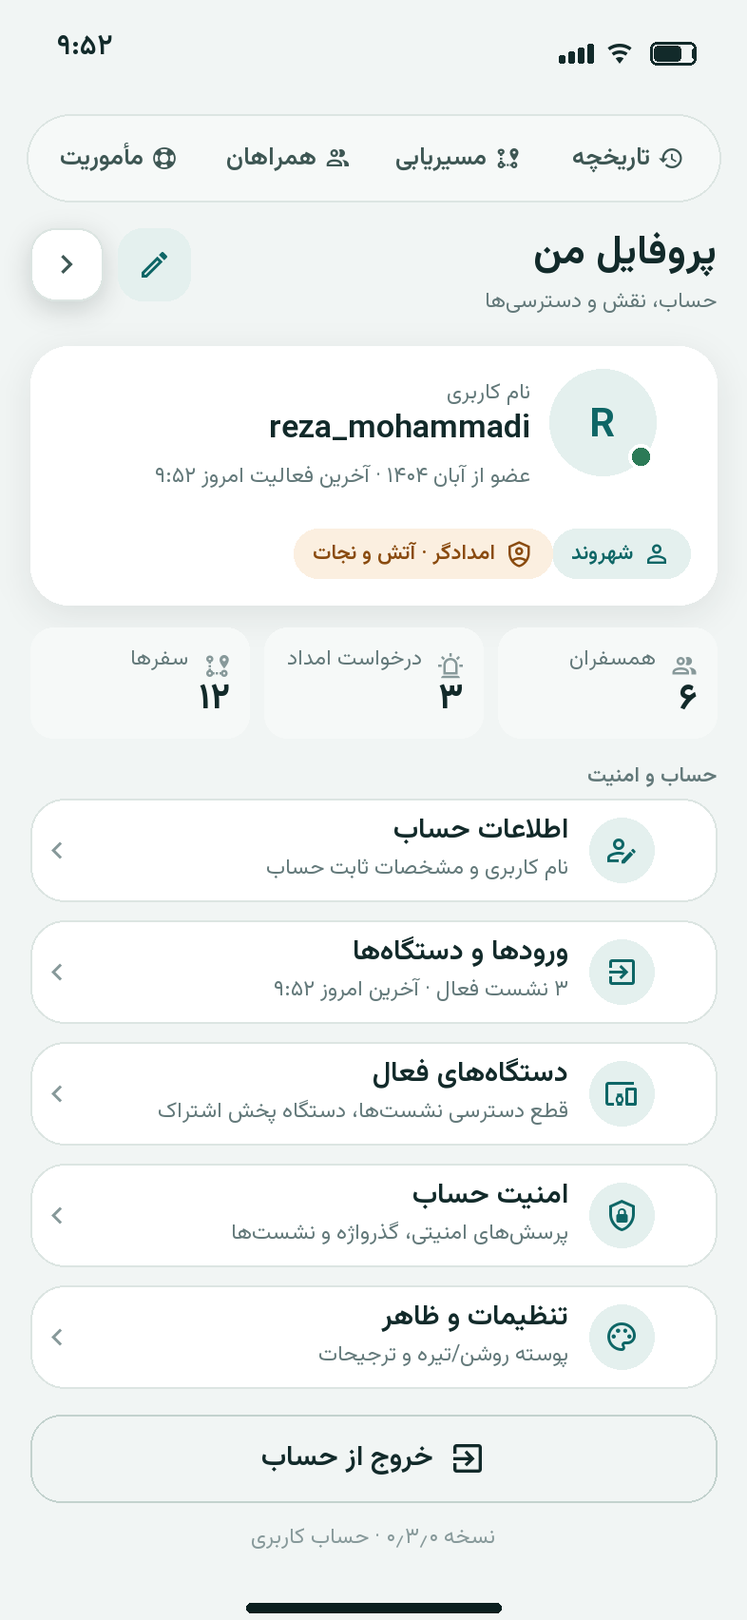
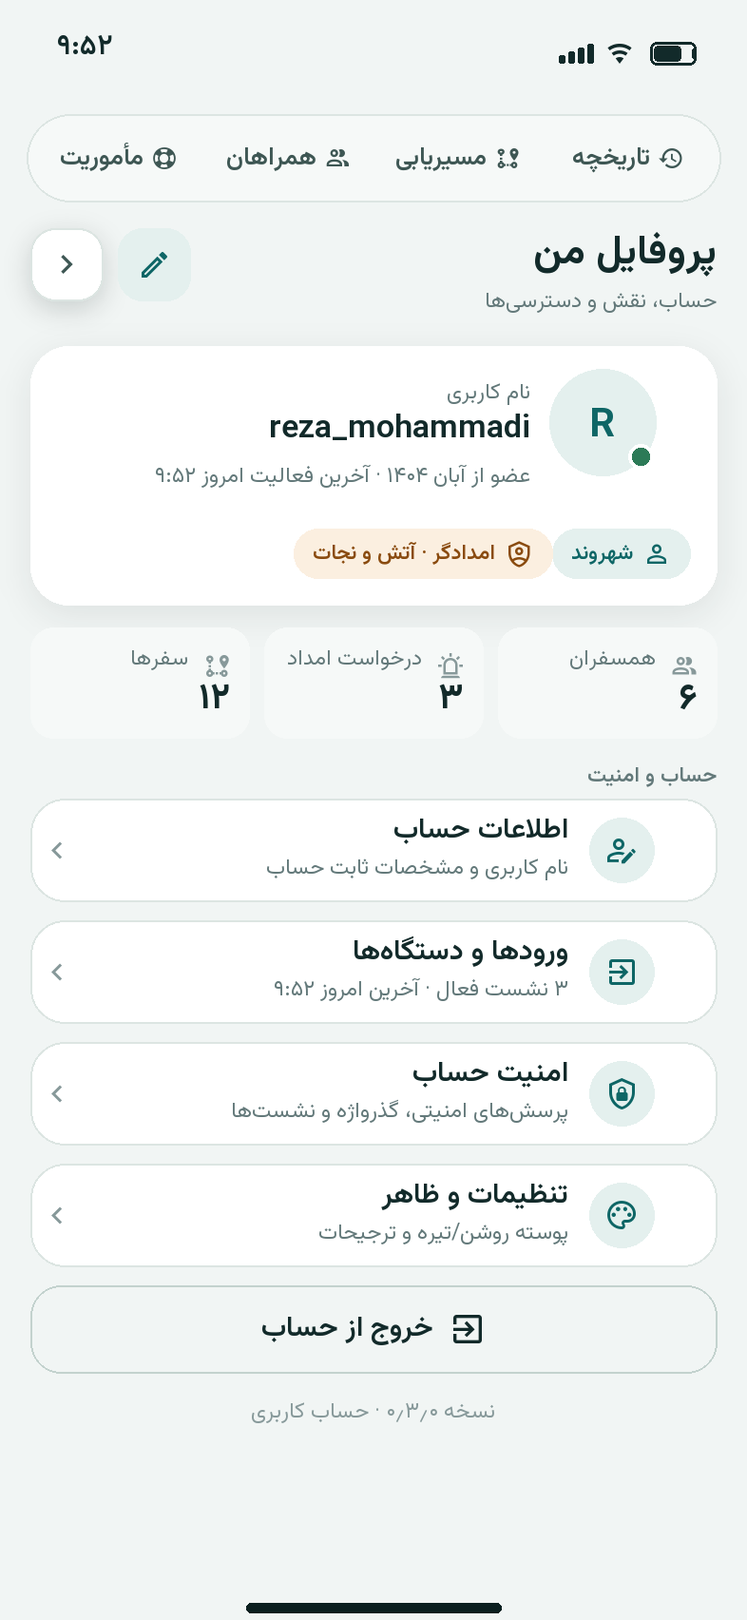
design(map-page): یک صفحه برای نشستها و دستگاهها، و ردیفهای تراز
خانهٔ پروفایل دو درِ همنام داشت: «ورودها و نشستها» و «دستگاههای فعال»، در حالی که
دومی تب اولی بود. حالا یک در است و دو تب («ورودها» / «دستگاهها») با پیل تبِ درست،
و دکمهٔ «مدیریت دستگاهها» که همان تب را تکرار میکرد حذف شد.

- چیپ «همین دستگاه» (۲۲px) و «پایان» (۳۲px) با دو مبدأ مختلف، مرکزشان ۸px فرق داشت؛
  هر دو روی خط مرکزی کارت نشستند و بلوک متن هم با همان مرکز تراز شد.
- کارت هشدار نشستها (۹۶px) خطوطش را در ارتفاع پخش کرد؛ آیکن با خط اول تراز شد.
- «پایان دادن به نشستهای دیگر» از دکمهٔ پرِ قرمز به نوار سفید با کادر و متن قرمز رفت
  تا کار مخرب بلندترین عنصر صفحه نباشد؛ پایین صفحهٔ دستگاهها با کارت «IP محل تقریبی
  نیست» پر شد.
- «گذرواژه» دیگر فلش و «تغییر» ندارد (کلاینت این کار را نمیکند)؛ جملهٔ سرگردان پای
  صفحهٔ امنیت هم حذف شد.

تست تازه: خانه یک در به نشستها دارد، هر دو تب نوار تب میکشند و نوار خطر دارند.

diff --git a/design/map-page/_generator/screens/profile.py b/design/map-page/_generator/screens/profile.py
@@ -140,19 +140,19 @@ def profile_home() -> Screen:
              "نام کاربری و مشخصات ثابت حساب", h=54)
     y = _row(s, y, "mdi-login-variant", "ورودها و دستگاهها", "۳ نشست فعال · آخرین امروز ۹:۵۲",
              h=54)
-    y = _row(s, y, "mdi-devices", "دستگاههای فعال", "قطع دسترسی نشستها، دستگاه پخش اشتراک",
-             h=54)
     y = _row(s, y, "mdi-shield-lock-outline", "امنیت حساب",
              "پرسشهای امنیتی، گذرواژه و نشستها", h=54)
     y = _row(s, y, "mdi-palette-outline", "تنظیمات و ظاهر", "پوستهٔ روشن/تیره و ترجیحات", h=54)
-    y += 4
+    # the sessions and the devices are one page with two tabs, so the hub has one door for both
+    assert y < 700, y
 
-    # leaving is a real destination, not a footer footnote
+    # leaving is a real destination, not a footer footnote — but it follows the list instead of
+    # floating alone at the foot of a half-empty page
     s.button(16, y, 361, 46, "خروج از حساب", icon="mdi-exit-to-app", variant="outline",
              color=C.danger)
     # the account has no display name (`PATCH /_user/me` takes only `username`), so the footer
     # does not print one
-    s.text(196.5, y + 56, "نسخهٔ ۰٫۳٫۰ · حساب کاربری", "caption", C.muted_2, align="center")
+    s.text(196.5, y + 58, "نسخهٔ ۰٫۳٫۰ · حساب کاربری", "caption", C.muted_2, align="center")
     home_bar(s)
     return s
 
@@ -223,35 +223,58 @@ SESSIONS = (
 )
 
 
+def _tabs(s: Screen, y: float, active: int) -> float:
+    """The two readings of one subject: what is signed in, and what those sessions play.
+
+    Same page, same title, same back button — the tab is a lens, not a second destination. That is
+    why the account hub has a single door for both.
+    """
+    s.rect(16, y, 361, 38, fill=C.surface_3, radius=19)
+    half = 361 / 2
+    pill_x = 16 + 3 if active else 16 + 361 - 3 - half
+    s.rect(pill_x, y + 3, half - 3, 32, fill="#FFFFFF", radius=16)
+    labels = ("ورودها", "دستگاهها")
+    for index, label in enumerate(labels):
+        cx = 16 + (361 / 4) + 1.5 if index else 16 + 361 - (361 / 4) - 1.5
+        s.text(cx, y + 11, label, "label", C.primary if index == active else C.muted,
+               align="center")
+    return y + 48
+
+
 def _session_row(s: Screen, y: float, item: dict, h: float = 74) -> float:
     _card(s, y, h)
     icon = _device_icon(item["device"])
     s.circle(357 - 30, y + h / 2, 17, fill=C.primary_soft if item["current"] else C.surface_3)
     s.i.draw_icon(357 - 30, y + h / 2, icon, 18, C.primary if item["current"] else C.text_2)
-    s.text(357 - 58, y + 12, item["device"], "label-lg", C.text, align="right", max_width=200)
-    s.text(357 - 58, y + 34, item["when"], "caption", C.muted, align="right")
+    # one rhythm per row: the text block is centred in the card, and both the status chip and the
+    # revoke chip sit on the same centre line (they are 22 and 32 tall, so their tops differ)
+    s.text(357 - 58, y + 19, item["device"], "label-lg", C.text, align="right", max_width=200)
+    s.text(357 - 58, y + 41, item["when"], "caption", C.muted, align="right")
     # IPs are Latin digits in their own LTR run: inside an RTL line the separators reorder them
-    s.ltr(140, y + 34, item["ip"], "caption", C.muted_2)
+    s.ltr(140, y + 41, item["ip"], "caption", C.muted_2)
     if item["current"]:
-        s.chip(28, y + 12, "همین دستگاه", None, "primary", h=22)
+        s.chip(24, y + h / 2 - 11, "همین دستگاه", None, "primary", h=22)
     else:
-        s.chip(24, y + 22, "پایان", "mdi-close", h=32, fill="#FFFFFF", color=C.danger,
+        s.chip(24, y + h / 2 - 16, "پایان", "mdi-close", h=32, fill="#FFFFFF", color=C.danger,
                outline=C.outline_strong)
     if item["online"]:
-        s.circle(357 - 20, y + 14, 3.4, fill=C.success)
+        s.circle(357 - 20, y + h / 2 - 20, 3.4, fill=C.success)
     return y + h + 8
+
+
+def _danger_bar(s: Screen, y: float, label: str, icon: str = "mdi-close-circle-outline",
+                h: float = 48) -> None:
+    """A destructive control that does not out-shout the content: outline, not a filled pill."""
+    s.rect(16, y, 361, h, fill="#FFFFFF", radius=14, outline=C.outline_strong, outline_w=1)
+    s.text(196.5, y + h / 2 - 10, label, "label", C.danger, align="center", max_width=280)
+    s.i.draw_icon(357 - 24, y + h / 2, icon, 18, C.danger)
 
 
 def profile_sessions() -> Screen:
     s = _page("۹:۵۲")
     y = _header(s, "ورودها و دستگاهها", "هر دستگاهِ هنوز واردشده یک ردیف دارد")
 
-    # the two tabs of the same subject: what signed in, and what it plays
-    s.rect(16, y, 361, 38, fill=C.surface_3, radius=19)
-    s.rect(16 + 361 - 3 - (361 / 2), y + 3, 361 / 2 - 3, 32, fill="#FFFFFF", radius=16)
-    s.text(16 + 361 - (361 / 4) - 1.5, y + 11, "ورودها", "label", C.primary, align="center")
-    s.text(16 + (361 / 4) + 1.5, y + 11, "دستگاهها", "label", C.muted, align="center")
-    y += 48
+    y = _tabs(s, y, active=0)
 
     cursor = 377
     for label, on in (("۷ روز", True), ("۳۰ روز", False), ("همه", False)):
@@ -276,19 +299,17 @@ def profile_sessions() -> Screen:
     y = _session_row(s, y, SESSIONS[2]) + 14
 
     # the honest boundary of this list — no invented login history
-    s.rect(16, y, 361, 78, fill=C.warning_soft, radius=14)
-    s.i.draw_icon(357 - 20, y + 20, "mdi-information-outline", 15, C.warning)
-    s.text(357 - 40, y + 10, "نشستی که خارج شده باشد اینجا نیست.", "caption-bold", C.warning,
+    assert y + 96 < 740, y
+    s.rect(16, y, 361, 96, fill=C.warning_soft, radius=14)
+    s.i.draw_icon(357 - 20, y + 27, "mdi-information-outline", 15, C.warning)
+    s.text(357 - 40, y + 19, "نشستی که خارج شده باشد اینجا نیست.", "caption-bold", C.warning,
            align="right", max_width=300)
-    s.text(357 - 40, y + 30, "این فهرست نشستهای زنده است و زمان فعالیت هر کدام را", "caption",
+    s.text(357 - 40, y + 41, "این فهرست نشستهای زنده است و زمان فعالیت هر کدام را", "caption",
            C.muted, align="right", max_width=300)
-    s.text(357 - 40, y + 48, "میگوید؛ زمان ورود را سرور جداگانه نگه میدارد.", "caption",
+    s.text(357 - 40, y + 61, "میگوید؛ زمان ورود را سرور جداگانه نگه میدارد.", "caption",
            C.muted, align="right", max_width=300)
 
-    s.button(16, 694, 361, 46, "پایان دادن به نشستهای دیگر", icon="mdi-close-circle-outline",
-             variant="tonal", color=C.danger)
-    s.button(16, 750, 361, 48, "مدیریت دستگاهها", icon="mdi-devices", variant="filled",
-             shadow=True)
+    _danger_bar(s, 740, "پایان دادن به نشستهای دیگر")
     home_bar(s)
     return s
 
@@ -309,55 +330,60 @@ DEVICES = (
 
 def profile_devices() -> Screen:
     s = _page("۹:۵۲")
-    y = _header(s, "دستگاههای فعال", "۳ نشست · همه از حساب شما")
-    y += 2
+    y = _header(s, "ورودها و دستگاهها", "هر دستگاهی که هنوز واردشده یک ردیف دارد")
+    y = _tabs(s, y, active=1) + 10
 
+    revoke = {"label": "پایان دسترسی", "icon": "mdi-close"}
     for item in DEVICES:
-        _card(s, y, 84)
-        s.circle(357 - 30, y + 30, 18, fill=C.primary_soft if item["current"] else C.surface_3)
-        s.i.draw_icon(357 - 30, y + 30, _device_icon(item["device"]), 19,
+        _card(s, y, 76)
+        s.circle(357 - 30, y + 38, 18, fill=C.primary_soft if item["current"] else C.surface_3)
+        s.i.draw_icon(357 - 30, y + 38, _device_icon(item["device"]), 19,
                       C.primary if item["current"] else C.text_2)
-        s.text(357 - 58, y + 12, item["device"], "label-lg", C.text, align="right",
+        s.text(357 - 58, y + 18, item["device"], "label-lg", C.text, align="right",
                max_width=195)
-        s.text(357 - 58, y + 34, item["when"], "caption", C.muted, align="right")
-        s.ltr(140, y + 34, item["ip"], "caption", C.muted_2)
+        s.text(357 - 58, y + 40, item["when"], "caption", C.muted, align="right")
+        s.ltr(140, y + 40, item["ip"], "caption", C.muted_2)
+        # one control per row, on the same centre line as the device icon: the revoke chip for a
+        # session you can end, the status chip for the one you are holding right now
         if item["current"]:
-            s.chip(28, y + 12, "همین دستگاه", None, "primary", h=24)
-            s.text(28, y + 44, "بدون قطع دسترسی", "caption", C.muted_2, align="left")
+            s.chip(24, y + 38 - 12, "همین دستگاه", None, "primary", h=24)
         else:
-            s.chip(28, y + 8, item["label"], None, "muted", h=22)
-            s.chip(24, y + 40, "پایان دسترسی", "mdi-close", h=32, fill="#FFFFFF",
+            s.chip(24, y + 38 - 16, revoke["label"], revoke["icon"], h=32, fill="#FFFFFF",
                    color=C.danger, outline=C.outline_strong)
         if item["online"]:
-            s.circle(357 - 20, y + 14, 3.4, fill=C.success)
-        y += 94
-    y += 2
+            s.circle(357 - 20, y + 18, 3.4, fill=C.success)
+        y += 86
 
+    y += 12
     s.text(377, y, "پخشکنندهٔ اشتراک موقعیت", "caption-bold", C.muted, align="right")
     y += 22
-    _card(s, y, 112)
+    _card(s, y, 122)
     s.text(353, y + 8, "کدام دستگاه موقعیت اشتراکی را نشان دهد؟", "label", C.text, align="right")
-    s.text(353, y + 28, "پین هر اشتراک جداست؛ این انتخاب همه را به این دستگاه میبرد.",
-           "caption", C.muted, align="right", max_width=330)
+    s.text(353, y + 30, "پین هر اشتراک جداست؛ این انتخاب همه را جابهجا میکند.", "caption",
+           C.muted, align="right", max_width=330)
+    s.text(353, y + 48, "فقط نشستهای زنده در این فهرست هستند.", "caption", C.muted_2,
+           align="right", max_width=330)
     for index, (name, on) in enumerate((("Chrome · ویندوز ۱۱ (همین دستگاه)", True),
                                         ("Samsung S23", False))):
-        ry = y + 52 + index * 28
+        ry = y + 70 + index * 28
         s.circle(357 - 18, ry + 9, 8, fill=C.primary if on else "#FFFFFF",
                  outline=None if on else C.outline_strong, outline_w=0 if on else 1.6)
         if on:
             s.i.draw_icon(357 - 18, ry + 9, "mdi-check", 10, "#FFFFFF")
         s.text(357 - 38, ry, name, "caption", C.text if on else C.text_2, align="right")
-    y += 124
 
-    s.rect(16, y, 361, 60, fill=C.info_soft, radius=14)
-    s.i.draw_icon(357 - 20, y + 18, "mdi-shield-key-outline", 15, C.info)
-    s.text(357 - 40, y + 8, "پایان دسترسی، آن دستگاه را از حساب خارج میکند.", "caption-bold",
-           C.info, align="right", max_width=300)
-    s.text(357 - 40, y + 28, "همین دستگاه را با «خروج از حساب» ببندید تا نشست پاک شود.",
+    # the honest boundary: what revoking does, and what an IP is not
+    note_y = 658
+    s.rect(16, note_y, 361, 80, fill=C.info_soft, radius=14)
+    s.i.draw_icon(357 - 20, note_y + 20, "mdi-shield-key-outline", 15, C.info)
+    s.text(357 - 40, note_y + 10, "پایان دسترسی، آن دستگاه را از حساب خارج میکند.",
+           "caption-bold", C.info, align="right", max_width=300)
+    s.text(357 - 40, note_y + 32, "همین دستگاه را با «خروج از حساب» ببندید تا نشست پاک شود.",
            "caption", C.muted, align="right", max_width=300)
+    s.text(357 - 40, note_y + 54, "نشانی IP، محل تقریبی نیست.", "caption", C.muted,
+           align="right", max_width=300)
 
-    s.button(16, 700, 361, 48, "نمایش ورودها و نشستها", icon="mdi-history",
-             variant="outline")
+    _danger_bar(s, 758, "پایان دادن به نشستهای دیگر")
     home_bar(s)
     return s
 
@@ -380,27 +406,27 @@ def profile_security() -> Screen:
            C.muted_2, align="right")
     y += 106
 
-    y = _row(s, y, "mdi-lock-reset", "گذرواژه", "تغییر با مسیر بازیابی و پاسخ پرسشها",
-             trailing=None, value="تغییر")
+    # no chevron and no «تغییر»: the client has no in-account password endpoint, so this card is a
+    # statement about the only path that exists, not a door
+    y = _row(s, y, "mdi-lock-reset", "گذرواژه", "تغییر فقط با «فراموشی گذرواژه»",
+             trailing=None)
     y = _row(s, y, "mdi-login-variant", "ورودهای اخیر", "۳ نشست فعال در ۳ دستگاه",
              trailing=None, value="مشاهده")
     y = _row(s, y, "mdi-devices", "دستگاهها", "قطع دسترسی نشستهای دیگر",
              trailing=None, value="مدیریت")
-    y += 2
-
     # the gate in the client: an incomplete account cannot reach the map
-    s.rect(16, y, 361, 74, fill=C.warning_soft, radius=14)
+    y = 560
+    s.rect(16, y, 361, 82, fill=C.warning_soft, radius=14)
     s.i.draw_icon(357 - 20, y + 20, "mdi-alert-outline", 15, C.warning)
     s.text(357 - 40, y + 10, "اگر پرسشها کامل نباشند، برنامه پیش از نقشه", "caption-bold",
            C.warning, align="right", max_width=300)
     s.text(357 - 40, y + 30, "شما را به تکمیل آنها میبرد؛ این وضعیت در نوار بالای", "caption",
            C.muted, align="right", max_width=300)
-    s.text(357 - 40, y + 48, "همان صفحه هم هشدار داده میشود.", "caption", C.muted,
+    s.text(357 - 40, y + 50, "همان صفحه هم هشدار داده میشود.", "caption", C.muted,
            align="right", max_width=300)
-    y += 88
 
-    s.text(377, y, "خطر", "caption-bold", C.danger, align="right")
-    y += 22
+    s.text(377, 700, "خطر", "caption-bold", C.danger, align="right")
+    y = 722
     _card(s, y, 62)
     s.circle(357 - 28, y + 31, 15, fill=C.danger_soft)
     s.i.draw_icon(357 - 28, y + 31, "mdi-close-circle-outline", 17, C.danger)
@@ -409,8 +435,6 @@ def profile_security() -> Screen:
            align="right")
     s.i.draw_icon(30, y + 31, "mdi-chevron-left", 18, C.muted_2)
 
-    s.text(196.5, 790, "تغییر گذرواژه از مسیر «فراموشی گذرواژه» انجام میشود", "caption",
-           C.muted_2, align="center")
     home_bar(s)
     return s
 

diff --git a/design/map-page/_generator/test_reference.py b/design/map-page/_generator/test_reference.py
@@ -326,3 +326,22 @@ def test_sos_stages_are_the_client_stages():
     from bb import ui
 
     assert ui.SOS_STAGES == ("ثبت", "اعزام", "پذیرش", "رسیدگی", "پایان")
+
+
+def test_the_account_has_one_door_to_its_sessions():
+    """«ورودها و دستگاهها» و «دستگاههای فعال» یک صفحه با دو تباند، نه دو درِ موازی.
+
+    The hub must offer the pair once; both tabs must draw the same tab bar, and the destructive
+    bulk action must not be the filled button it used to be.
+    """
+    import inspect
+
+    from screens import profile
+
+    hub = inspect.getsource(profile.profile_home)
+    assert hub.count('"ورودها و دستگاهها"') == 1
+    assert "دستگاههای فعال" not in hub
+    for tab in (profile.profile_sessions, profile.profile_devices):
+        source = inspect.getsource(tab)
+        assert "_tabs(" in source
+        assert "_danger_bar(" in source

diff --git a/design/map-page/README.md b/design/map-page/README.md
@@ -136,10 +136,10 @@
 
 | فایل | حالت |
 |---|---|
-| `01-profile-home.png` | خانهٔ پروفایل: هویت (نام کاربری، نقش شهروند + امدادگر، تاریخ عضویت، آخرین فعالیت)، سه متریک، پنج درِ حساب، «خروج از حساب» و نسخه |
+| `01-profile-home.png` | خانهٔ پروفایل: هویت (نام کاربری، نقش شهروند + امدادگر، تاریخ عضویت، آخرین فعالیت)، سه متریک، چهار درِ حساب (ورودها و دستگاهها یک صفحه با دو تب است، پس یک در)، «خروج از حساب» و نسخه |
 | `02-profile-edit.png` | تنها فیلد قابل ویرایش (`username`) با شمارنده و قاعدهٔ ۳–۳۰، و سه ثابتِ فقطخواندنی با دلیلِ قفلبودن (نقش، دستهٔ امداد، وضعیت حساب) |
-| `03-login-history.png` | ورودها و دستگاهها: تفکیک امروز/دیروز با شمارش، دستگاه جاری با چیپ «همین دستگاه»، IP هر نشست بهصورت LTR، هشدار «فهرست فقط نشستهای زنده است»، و «پایان دادن به نشستهای دیگر» |
-| `04-active-devices.png` | دستگاههای فعال: سه نشست، «پایان دسترسی» برای هر نشست، و انتخاب دستگاهِ نمایشدهندهٔ اشتراکهای موقعیت (پین هر اشتراک جداست) |
+| `03-login-history.png` | تب «ورودها»: تفکیک امروز/دیروز با شمارش، دستگاه جاری با چیپ «همین دستگاه»، IP هر نشست بهصورت LTR، هشدار «فهرست فقط نشستهای زنده است»، و «پایان دادن به نشستهای دیگر» |
+| `04-active-devices.png` | تب «دستگاهها» (همان صفحه، پیل تب جابهجا میشود): سه نشست، یک «پایان دسترسی» در هر ردیف، انتخاب دستگاهِ نمایشدهندهٔ اشتراکهای موقعیت، و این جمله که IP محل تقریبی نیست |
 | `05-security.png` | امنیت: کارت کاملبودن ۵ پرسش امنیتی، گذرواژه/ورودهای اخیر/دستگاهها، دروازهٔ `mustCompleteSecurityQuestions` و ردیف خطر «پایان دادن به همهٔ نشستها» |
 | `06-logout-confirm.png` | تأیید خروج روی نقشه: «نشست همین دستگاه»، دکمهٔ انصراف/خروج، و یادآوری اینکه SOS بعد از خروج نیاز به ورود دوباره دارد |
 | `07-map-entry.png` | **درِ ورود**: دکمهٔ حساب روی نقشه (بالای ابزارهای نقشه) و منوی بازشده: پروفایل، ورودها و دستگاهها، تاریخچه، تنظیمات، خروج |
@@ -248,6 +248,11 @@
 30. **IP فقط در یک رشتهٔ LTR مینشیند**: «۱۹۲٫۱۶۸٫•••٫۲۴» کنار متن فارسی در یک خط RTL بازچینش
     میشد و بهشکل `۹۱٠٠٠۵/۲۳۸/` دیده میشد؛ حالا هر IP با ارقام لاتین و در `ltr()` جدا رسم
     میشود و شهر (که API نمیدهد) از خط حذف شد. همین قاعده برای نام کاربری لاتین هم هست.
+31. **یک صفحه، دو تب — نه دو درِ موازی**: «ورودها و نشستها» و «دستگاههای فعال» دو نمای یک
+    موضوعاند (چه چیزی وارد شده، و کدامشان را قطع کنم)، ولی خانهٔ پروفایل دو درِ همنام داشت و
+    یکی از آنها تبِ دیگری را تکرار میکرد. حالا یک در است، عنوان دو تب یکی است، و پیل تب با
+    `active` جابهجا میشود؛ در نتیجه دکمهٔ «مدیریت دستگاهها» در پای صفحه حذف شد و یک نوار
+    خطرِ آرام («پایان دادن به نشستهای دیگر») جایش را گرفت تا کار مخرب بلندترین عنصر صفحه نباشد.
 
 ---
 
@@ -490,7 +495,7 @@ python render.py 09-navigation-active --sheet
   `ltr()` روی ستون ثابت ۱۴۰px هر ردیف رسم میشود و «تهران» (که API نمیدهد) حذف شد.
 - **دکمههای کوچک**: «پایان»/«پایان دسترسی» در دکمههای ۹۶–۱۰۸ پیکسلی متنشان وسط نمینشست؛
   به چیپ سفید با کادر قرمز تبدیل شدند و «پایان دادن به نشستهای دیگر» از استایل outline
-  (که رنگ متن را نادیده میگیرد) به tonal قرمز رفت.
+  (که رنگ متن را نادیده میگیرد) به یک نوار سفید با کادر و متن قرمز رفت، نه دکمهٔ پرِ قرمز.
 - **کارت پخشکنندهٔ دستگاهها**: خط دوم توضیح روی اولین رادیو افتاده بود؛ کارت به یک خط توضیح
   کوتاهتر بازنویسی شد («پین هر اشتراک جداست؛ این انتخاب همه را به این دستگاه میبرد.») و متن
   «صدا» حذف شد چون اشتراک، موقعیت است نه تماس صوتی.
@@ -512,6 +517,20 @@ python render.py 09-navigation-active --sheet
   نوشته شده بود) و سرِ گروهها روی پسزمینهٔ روشن دیده نمیشد؛ هر دو اصلاح شد.
 - **صفحهٔ خطا**: ناحیهٔ خالی پایین با کارت «ذخیرهشده در امروز ۹:۱۲» و معنای کش پر شد؛
   «این فهرست ممکن است قدیمی باشد» که همان جمله را دو بار میگفت حذف شد.
+- **دو درِ تکرارشده در پروفایل**: «ورودها و نشستها» و «دستگاههای فعال» هر دو به یک موضوع
+  میرسیدند و یکی تبِ دیگری را تکرار میکرد؛ حالا یک در است و دو تب («ورودها» / «دستگاهها») که
+  پیلشان با تب فعال جابهجا میشود. با حذف ردیف پنجم، دکمهٔ خروج بهجای شنا کردن در پای صفحه
+  مستقیم دنبال فهرست آمد.
+- **چیپهای ناهمتراز در ردیف نشست**: «همین دستگاه» (۲۲px) و «پایان» (۳۲px) از دو مبدأ رسم
+  میشدند و مرکزشان ۸px فرق داشت؛ هر دو حالا روی خط مرکزی کارت مینشینند و بلوک متن هم با
+  همان مرکز تراز شد (بالا ۱۷px، پایین ۱۵px).
+- **پایین صفحهٔ دستگاهها**: کارت توضیح و «پایان دادن به نشستهای دیگر» بهصورت یک نوار سفید با
+  کادر و متن قرمز آمد تا کار مخرب بلندترین عنصر صفحه نباشد و ~۱۰۰px فضای خالی زیر CTA پر شود.
+- **کارت هشدار نشستها**: ارتفاع از ۷۸ به ۹۶ رفت ولی خطوط بالا مانده بودند؛ هر سه خط حالا در
+  ارتفاع کارت پخش شدهاند و آیکن با خط اول تراز است.
+- **ردیف گذرواژهٔ بیمقصد**: کارت «گذرواژه» مقدار «تغییر» و فلش داشت، ولی کلاینت هیچ
+  endpointی برای تغییر گذرواژهٔ داخل حساب ندارد؛ حالا یک کارت ثابت است که مسیر واقعی
+  («فراموشی گذرواژه») را میگوید و جملهٔ سرگردان پای صفحه حذف شد.
 
 ## ۶. معیار پذیرش تصاویر
 
